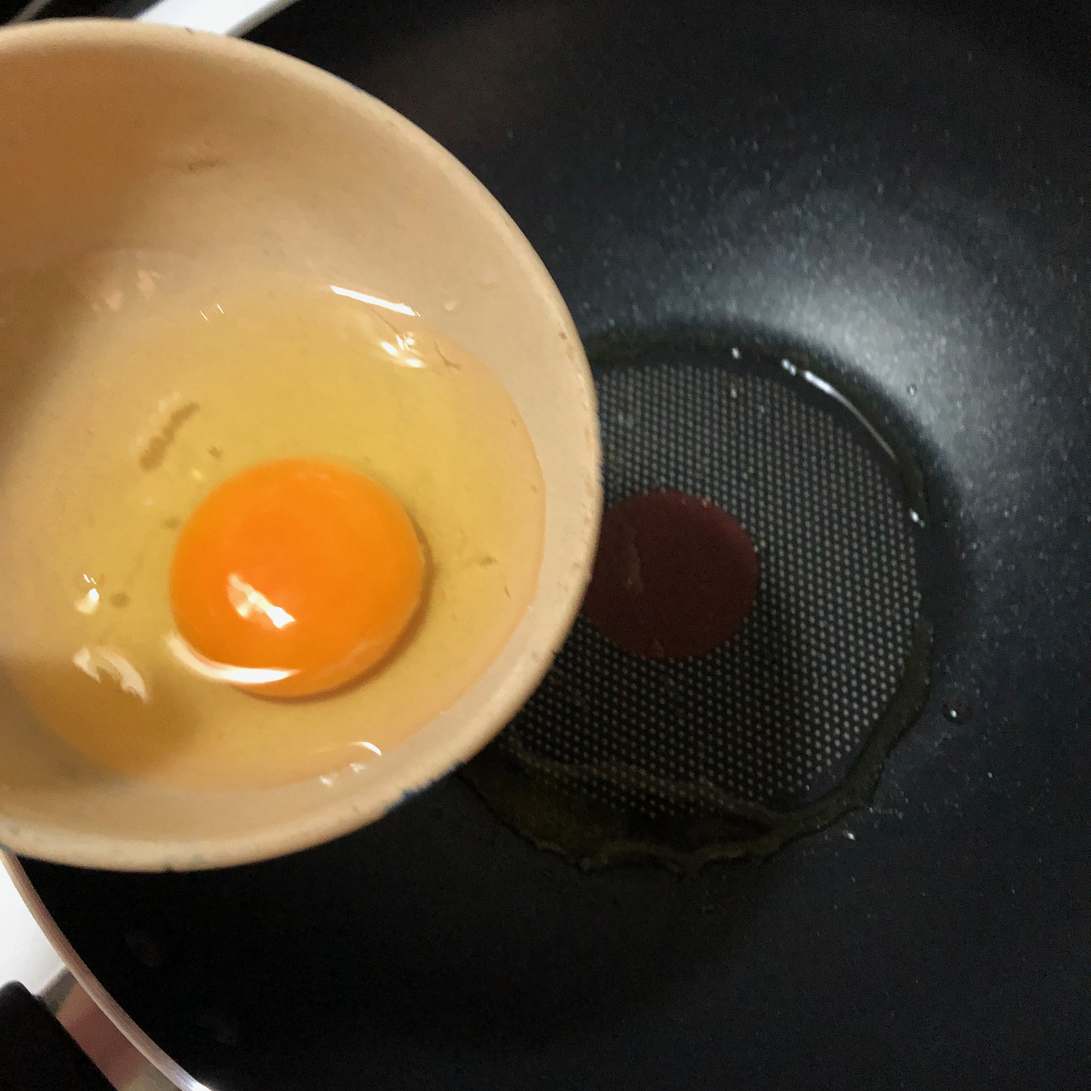
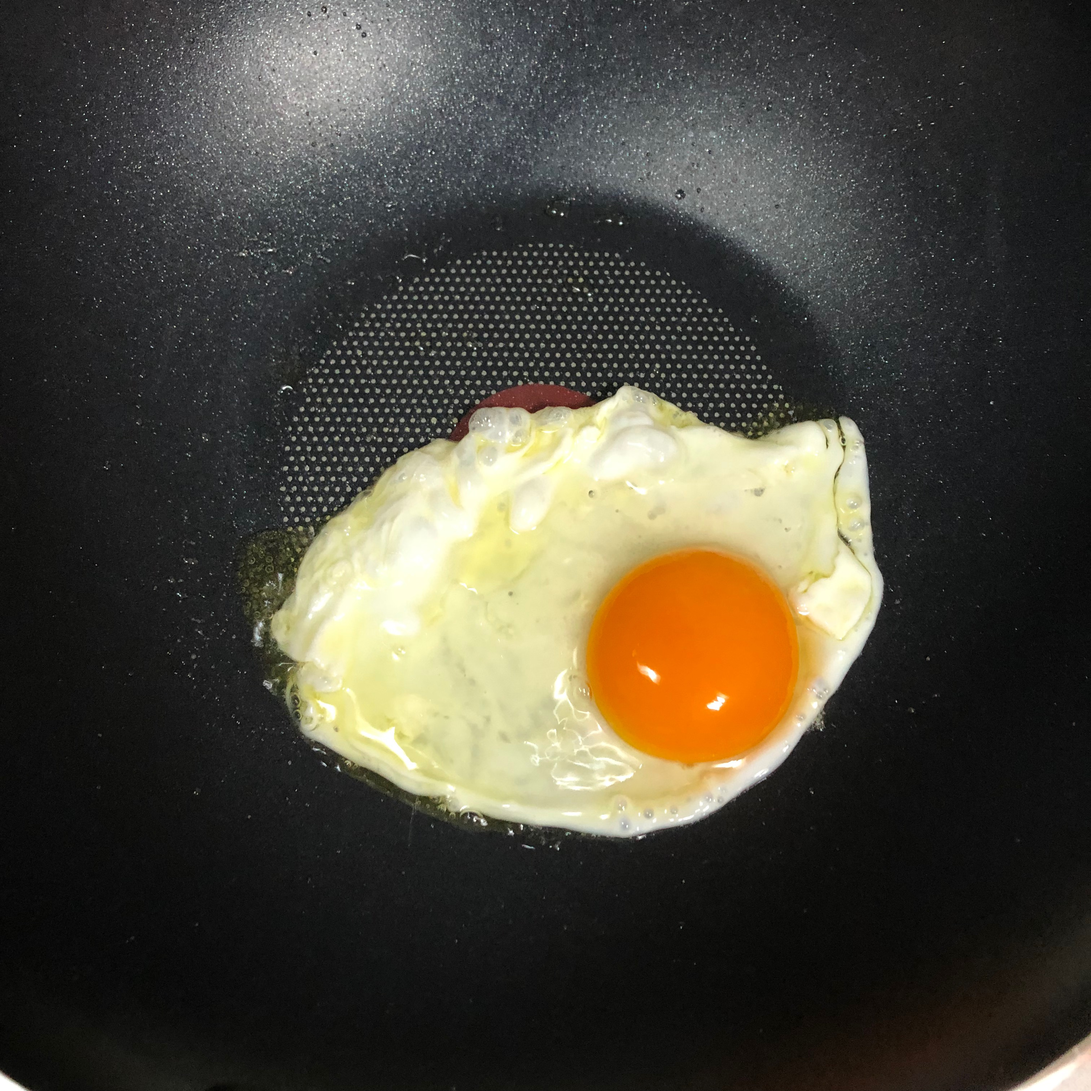
new post: 正義夥伴的起點 - 來自遙遠記憶的煎蛋

diff --git a/content/posts/cook/2022/4-fried-egss-from-memories.md b/content/posts/cook/2022/4-fried-egss-from-memories.md
@@ -1,23 +1,26 @@
 Title: 正義夥伴的起點 - 來自遙遠記憶的煎蛋
-Date: 2022-08-31 22:55
+Date: 2022-01-27 22:55
 Category: Cook
 Tags: Fate, 衛宮家今天的餐桌風景
 Slug: fried-eggs-from-memories
 Authors: Lee-W
-Cover:
-Status: draft
+Cover: /images/post-images/2022-fried-eggs-from-memories/finish-2.jpeg
+
+最近連載中的回數們，意外的都是我很有興趣的料理
+就只能試著用五十音也背不好的殘破日文試著看懂製作的步驟
+
+<!--more-->
 
 53 話[遠き記憶と目玉焼き](https://web-ace.jp/youngaceup/contents/1000010/episode/5947/)
-翻成來自遙遠記憶的煎蛋應該蠻正確的吧
-算是一道很簡單的料理
-
-既然切嗣爸爸又登場了
-我又豈能不做這道料理呢？
-
+翻成來自遙遠記憶的煎蛋應該還算正確的吧 🤔
+這次的故事切嗣爸爸又登場了，我又豈能不做這道料理呢？
+不過切嗣不擅家務的人設還是沒有改變
+所以這次是小士郎的回合
+士郎看不下去切嗣每天都帶外食，決定要開始學煮飯
+某種程度上，這也能看成士郎這個正義の味方的起點吧 😆
 
 ## 食材
-
-
+* 估計成本： 40 元
 
 ### 煎蛋
 
@@ -37,33 +40,48 @@ Status: draft
 
 ![material](/images/post-images/2022-fried-eggs-from-memories/material.jpeg)
 
-
 ## 步驟
+* 估計時間： 15 分鐘
+
+這是道非常簡單的料理，幾乎沒有難度
 
 ### 煎蛋
-將雞蛋打入碗中（有殼時取出）
+先將雞蛋打入碗中
 
-用平底鍋開中火，加入橄欖油跟鹽
+平底鍋內加入橄欖油跟鹽後開中火
 
-將打好的蛋在低處放入平底鍋
-到底部開始凝固轉小火
-接著就看想讓蛋黃多熟
-半熟的話大概是不蓋鍋蓋 3 ~ 5 分鐘
-撒上一點胡椒就完成了
 ![egg-step-1](/images/post-images/2022-fried-eggs-from-memories/egg-step-1.jpeg)
+
+將打好的蛋在低處放入平底鍋，底部開始凝固後轉小火
+
+再來就是看想讓蛋多熟
+原作的半熟的話，差不多是不蓋鍋蓋煎 3 ~ 5 分鐘
+起鍋前灑上一點胡椒就完成了
+
 ![egg-step-2](/images/post-images/2022-fried-eggs-from-memories/egg-step-2.jpeg)
-![egg-step-3](/images/post-images/2022-fried-eggs-from-memories/egg-step-3.jpeg)
 
 ### 香腸
-將水和香腸放入平底鍋
-開大火滾動香腸，讓他們平均受熱
-當火蒸發掉後，轉中火，再稍微煎一下就完成
 
+平底鍋放入 4 大匙的水和香腸後，開大火
 ![sausage-step-1](/images/post-images/2022-fried-eggs-from-memories/sausage-step-1.jpeg)
+持續滾動香腸，讓它們平均受熱
 ![sausage-step-2](/images/post-images/2022-fried-eggs-from-memories/sausage-step-2.jpeg)
+當水蒸發掉後轉中火，稍微再煎一下就完成了
+
+
+
 ![sausage-step-3](/images/post-images/2022-fried-eggs-from-memories/sausage-step-3.jpeg)
 
 
 ## 完成
+
+飯糰是用上次重現的 [士郎特製飽滿飯糰]({filename}/posts/cook/2022/3-emiya-s-rice-ball.md) 多做的
+在這次重現前，我有試著用士郎的做法煎蛋，大受室友好評
+香腸就...香腸，沒什麼特別的
+
 ![finish-1](/images/post-images/2022-fried-eggs-from-memories/finish-1.jpeg)
+
+看到切嗣爸爸幸福的吃著早餐
+果然還是別打什麼聖杯戰爭，大家好好吃飯吧 🍚
+
 ![finish-2](/images/post-images/2022-fried-eggs-from-memories/finish-2.jpeg)

diff --git a/content/pages/emiya-toc.md b/content/pages/emiya-toc.md
@@ -13,7 +13,7 @@ Date: 2021-08-28 16:48
 | [遠坂流什錦炒飯]({filename}/posts/cook/2020/3-tohsaka-fired-rice.md) | | 8 | [8](https://ani.gamer.com.tw/animeVideo.php?sn=16734) |
 | [秋日味覺 - Caster 和風料理修行]({filename}/posts/cook/2021/23-caster-s-washoku.md) | | 9 | [9](https://ani.gamer.com.tw/animeVideo.php?sn=16735) |
 | [士郎特製飽滿飯糰]({filename}/posts/cook/2022/3-emiya-s-rice-ball.md) | | 番外 1 | |
-| [Saber 今天的點心]({filename}/posts/cook/2020/6-saber-s-snack.md) | | 番外 2 | | 
+| [Saber 今天的點心]({filename}/posts/cook/2020/6-saber-s-snack.md) | | 番外 2 | |
 | [愛因茲貝倫城的聖誕烤牛肉]({filename}/posts/cook/2020/7-roast-beef-in-einzbern-castle.md) | 2 | 11 | [12](https://ani.gamer.com.tw/animeVideo.php?sn=16738) |
 | [冬季必吃的關東煮]({filename}/posts/cook/2021/19-emiya-s-oden.md) | | 12 | |
 | [間桐家的海藻吻仔魚義大利麵]({filename}/posts/cook/2020/5-matou-s-seaweed-whitebait-pasta.md) | | 13 | |
@@ -34,3 +34,4 @@ Date: 2021-08-28 16:48
 | [衛宮家的新年賀歲年糕湯]({filename}/posts/cook/2022/1-emiya-s-new-year-rice-cake-soup.md) | 6 | 37 | |
 | [夏天買不太到草莓，那就做巧克力奇異果千層吧]({filename}/posts/cook/2021/14-saber-s-mille-crepes.md) | 7 (?) | 48 | |
 | [深秋的甜番薯]({filename}/posts/cook/2021/20-mitsuzuri-s-sweet-potato.md) | 8 (?) | 52 | |
+| [正義夥伴的起點 - 來自遙遠記憶的煎蛋]({filename}/posts/cook/2022/4-fried-egss-from-memories.md) | 8 (?) | 53 |
